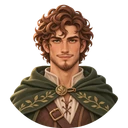
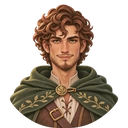
Update three selected portraits from owner archive

diff --git a/games/heroes-of-ether/public/index.html b/games/heroes-of-ether/public/index.html
@@ -2,7 +2,7 @@
 <html lang="ru" class="game-booting">
   <head>
     <script src="shared/browser-abort-compat.js?v=20261123-win7"></script>
-    <script src="shared/art-revision.js?v=20261122-clean-rims"></script>
+    <script src="shared/art-revision.js?v=20261123-selected-portraits"></script>
     <meta charset="utf-8" />
     <meta name="viewport" content="width=device-width, initial-scale=1, viewport-fit=cover" />
     <meta name="theme-color" content="#101321" />
@@ -681,7 +681,7 @@
     <script src="shared/achievement-badge.js?v=20261122-portrait-memory"></script>
     <script src="ui/progression/greatness-label.js?v=20261122-art-consistency"></script>
     <script src="shared/skin-collection-preview.js?v=20261122-canon16"></script>
-    <script src="shared/player-identity.js?v=20261122-face-center"></script>
+    <script src="shared/player-identity.js?v=20261123-selected-portraits"></script>
     <script src="shared/league-appearance.js?v=20261122-clean-rims"></script>
     <script src="shared/lobby-menu-art.js?v=20261122-art-consistency"></script>
     <script src="shared/interface-theme.js?v=20261122-art-consistency"></script>

diff --git a/games/heroes-of-ether/public/shared/player-identity.js b/games/heroes-of-ether/public/shared/player-identity.js
@@ -613,7 +613,7 @@
       Object.fromEntries(
         [64, 128, 256, 512, 1024].map((size) => [
           size,
-          `assets/skins/${directory}/${size}/${skin.id}.webp?art=${skin.tier === "vip" ? "20261122-canon16" : ["vip-1", "vip-3", "premium-2"].includes(skin.id) ? "20261122c" : "20261122b"}`,
+          `assets/skins/${directory}/${size}/${skin.id}.webp?art=${skin.id === "premium-2" ? "20261123-selected-portraits" : skin.tier === "vip" ? "20261122-canon16" : ["vip-1", "vip-3"].includes(skin.id) ? "20261122c" : "20261122b"}`,
         ]),
       ),
     );
@@ -687,7 +687,7 @@
           Object.fromEntries(
             [64, 128, 256, 512, 1024].map((size) => [
               size,
-              "assets/skins/collections-v1/" + size + "/" + m.id + ".webp?v=20261122-canon16",
+              "assets/skins/collections-v1/" + size + "/" + m.id + ".webp?v=" + (["desert-cat", "grove-faun"].includes(m.id) ? "20261123-selected-portraits" : "20261122-canon16"),
             ]),
           ),
         );

diff --git a/games/heroes-of-ether/public/shared/art-revision.js b/games/heroes-of-ether/public/shared/art-revision.js
@@ -5,9 +5,10 @@ window.KillexArtRevision = Object.freeze({
     if (typeof value !== "string" || !/^\/?assets\//.test(value)) return value;
     const parts = value.split("#"), base = parts[0]
       .replace(/([?&])art=[^&]*(&?)/g, (_, a, b) => b ? a : "").replace(/[?&]$/, "");
+    const selectedPortrait = /assets\/skins\/(?:premium-v2\/\d+\/premium-2|collections-v1\/\d+\/(?:desert-cat|grove-faun))\.webp/.test(base);
     const revised = /assets\/achievements\/illustrated-v2\/(?!easter_)/.test(base)
       || /assets\/skins\/(?:transparent-v2\/\d+\/vip-[13]|premium-v2\/\d+\/premium-2)\.webp/.test(base);
-    return base + (base.includes("?") ? "&" : "?") + "art=" + (revised ? "20261122c" : "20261122b")
+    return base + (base.includes("?") ? "&" : "?") + "art=" + (selectedPortrait ? "20261123-selected-portraits" : revised ? "20261122c" : "20261122b")
       + (parts.length > 1 ? "#" + parts.slice(1).join("#") : "");
   },
 });
